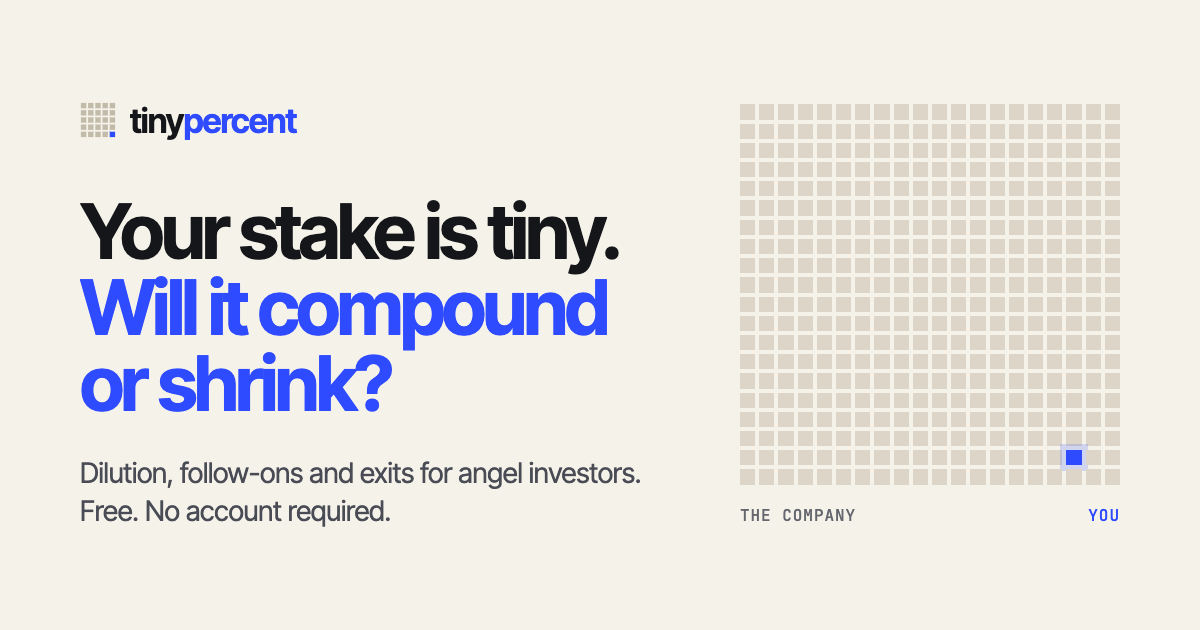
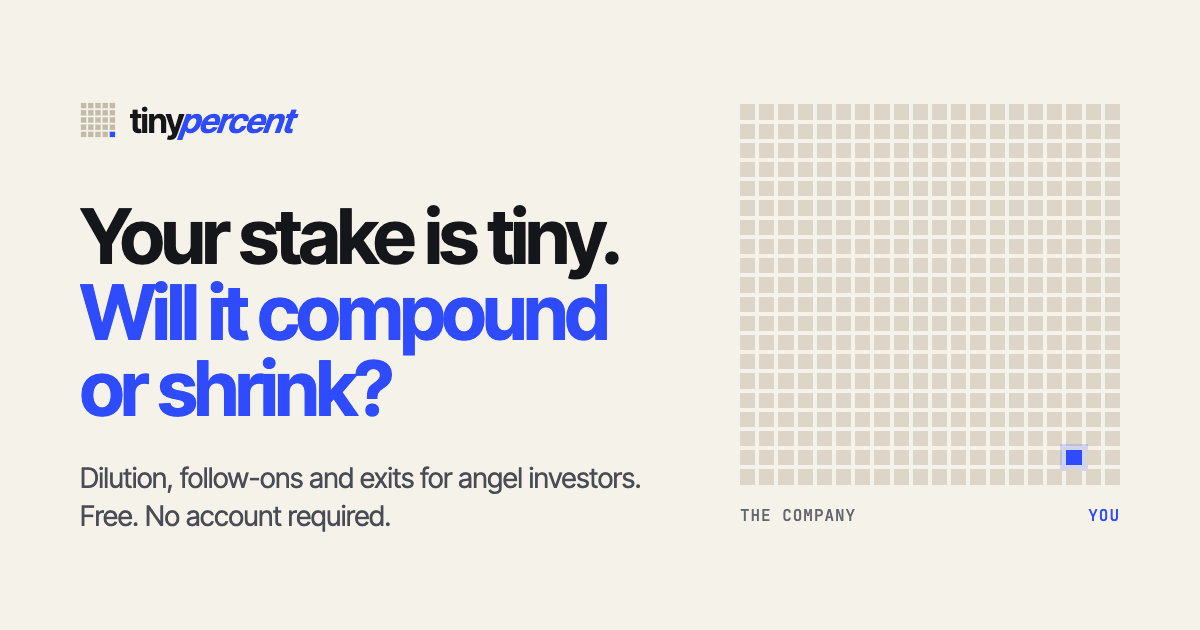
Slant "percent" in the wordmark to match the y
"percent" now leans 20°, the measured angle of the y's long stroke in Inter
Tight semibold, so the y and the p's stem run parallel. It is nudged in and
skewed about its middle so "tinypercent" still reads as one word. The
link-preview image matches, and the PDF masthead uses Helvetica's bold
oblique.

Changed region(s): [[0.0617, 0.3016, 0.5242, 0.6635], [0.0617, 0.7238, 0.555, 0.8444], [0.1542, 0.181, 0.2467, 0.2111]]

diff --git a/tools/og-image.html b/tools/og-image.html
@@ -12,7 +12,8 @@
   body { background: #f5f2ea; color: #15161a; font-family: "Inter Tight", sans-serif; }
   .frame { position: absolute; inset: 0; padding: 70px 80px; display: grid; grid-template-columns: 1fr 380px; gap: 70px; align-items: center; }
   .brand { display: flex; align-items: center; gap: 14px; font-size: 34px; font-weight: 650; letter-spacing: -0.03em; margin-bottom: 52px; }
-  .brand b { color: #2f4bff; font-weight: inherit; }
+  /* "percent" slants 20°, the angle of the y's long stroke, as in the site's wordmark. */
+  .brand b { color: #2f4bff; font-weight: inherit; display: inline-block; line-height: 1.5; margin-left: -0.06em; transform: skewX(-20deg); transform-origin: 0 60%; }
   h1 { margin: 0; font-size: 76px; line-height: 1.0; letter-spacing: -0.045em; font-weight: 680; }
   h1 em { font-style: normal; color: #2f4bff; }
   p { margin: 34px 0 0; font-size: 28px; color: #4a4c55; line-height: 1.35; letter-spacing: -0.01em; }

diff --git a/src/ui/report/pdf.ts b/src/ui/report/pdf.ts
@@ -56,7 +56,7 @@ export function reportPdf(report: Report): jsPDF {
   const ink = (c: Rgb) => doc.setTextColor(c[0], c[1], c[2])
   const paint = (c: Rgb) => doc.setFillColor(c[0], c[1], c[2])
   const stroke = (c: Rgb) => doc.setDrawColor(c[0], c[1], c[2])
-  const font = (size: number, weight: 'normal' | 'bold' = 'normal') => {
+  const font = (size: number, weight: 'normal' | 'bold' | 'bolditalic' = 'normal') => {
     doc.setFont('helvetica', weight)
     doc.setFontSize(size)
   }
@@ -85,6 +85,8 @@ export function reportPdf(report: Report): jsPDF {
   write('tiny', MARGIN, y + 10)
   const tiny = doc.getTextWidth('tiny')
   ink(ACCENT)
+  // Helvetica's oblique stands in for the slanted "percent" of the web wordmark.
+  font(13, 'bolditalic')
   write('percent', MARGIN + tiny, y + 10)
   font(9)
   ink(FAINT)

diff --git a/src/landing/Section.tsx b/src/landing/Section.tsx
@@ -64,13 +64,16 @@ export function Mark({ className = 'h-5 w-5' }: { className?: string }) {
   )
 }
 
-/** The name as it is drawn: lowercase, with "percent" in the slice colour. */
+/**
+ * The name as it is drawn: lowercase, with "percent" in the slice colour and
+ * slanted 20°, the angle of the y's long stroke, so the two run parallel.
+ */
 export function Wordmark({ className = '' }: { className?: string }) {
   return (
     <span className={`inline-flex items-center gap-2 font-semibold tracking-[-0.03em] ${className}`}>
       <Mark />
       <span>
-        tiny<span className="text-accent">percent</span>
+        tiny<span className="-ml-[0.06em] inline-block origin-[0_60%] -skew-x-20 pr-[0.2em] text-accent">percent</span>
       </span>
     </span>
   )
